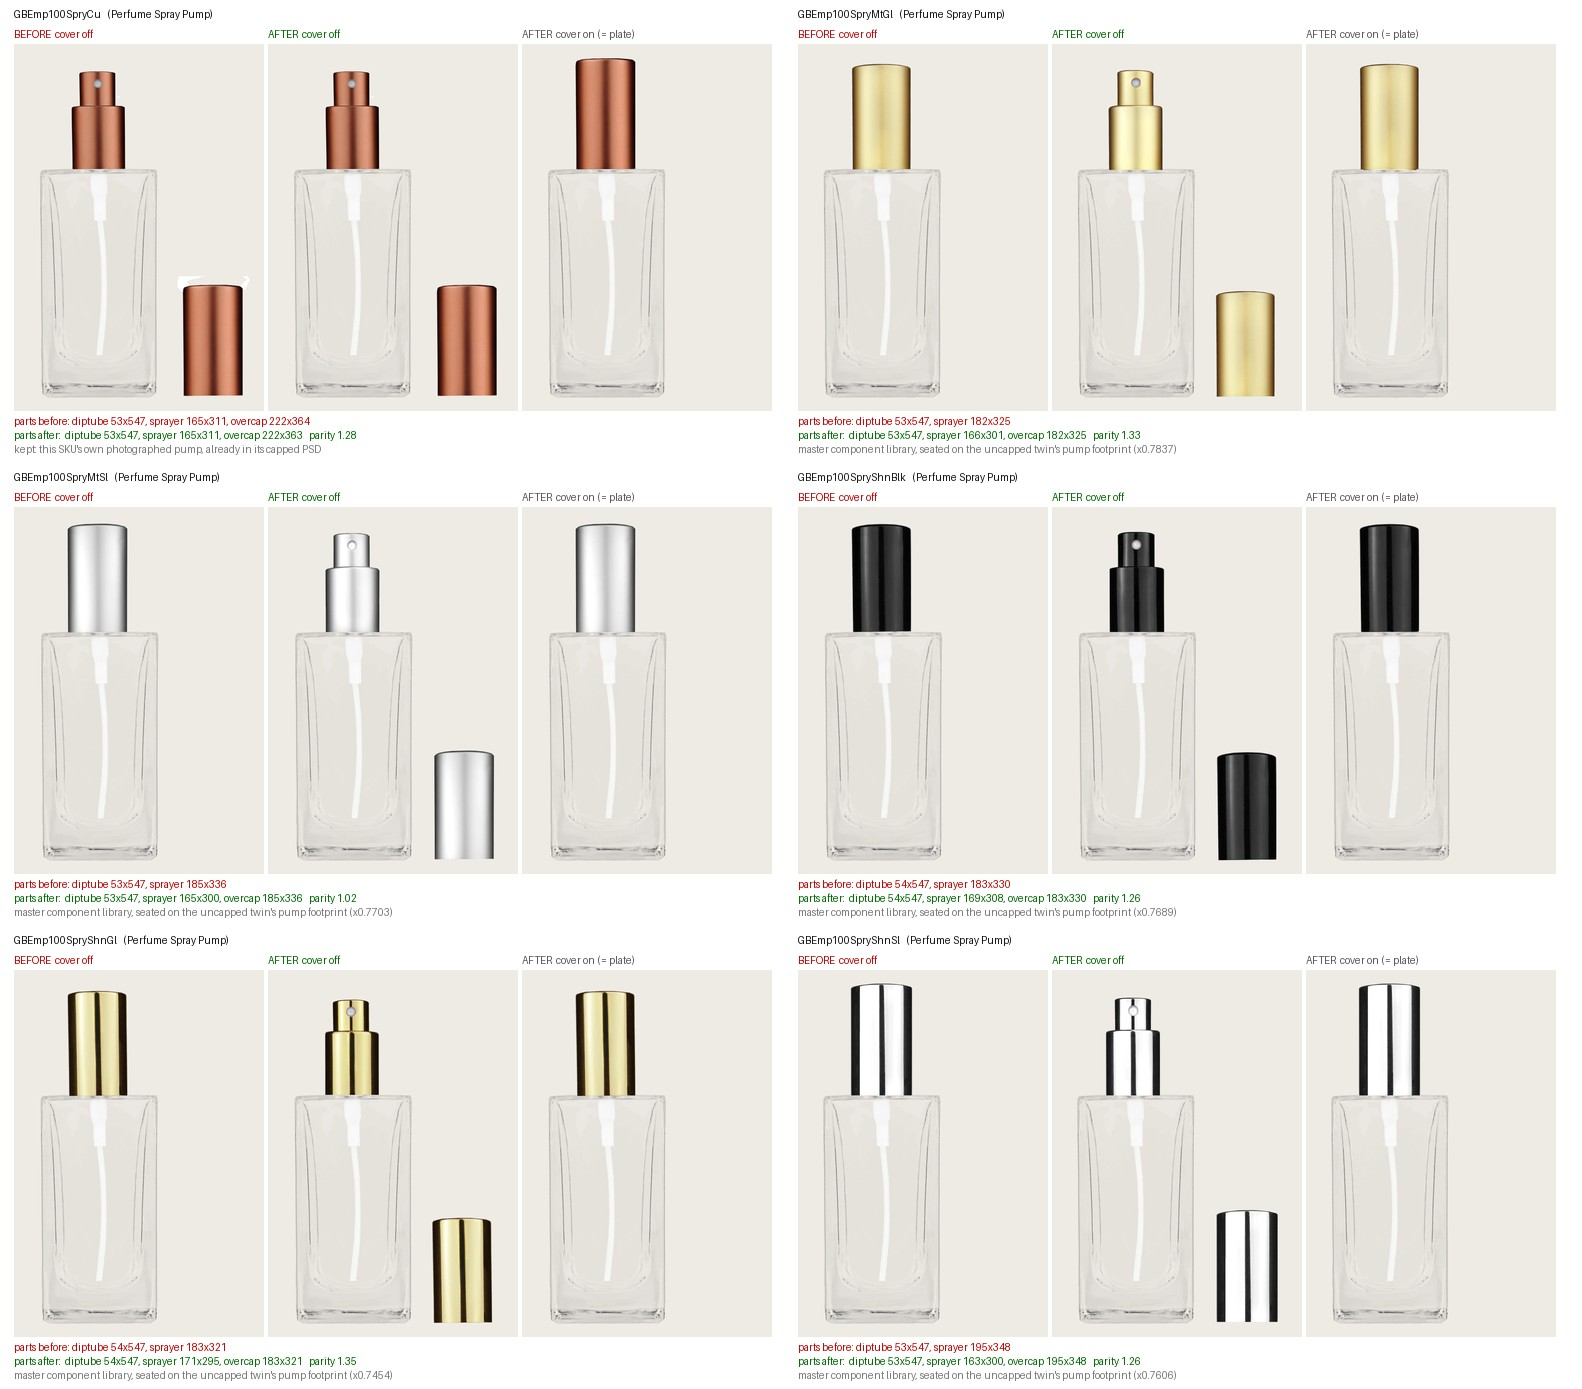
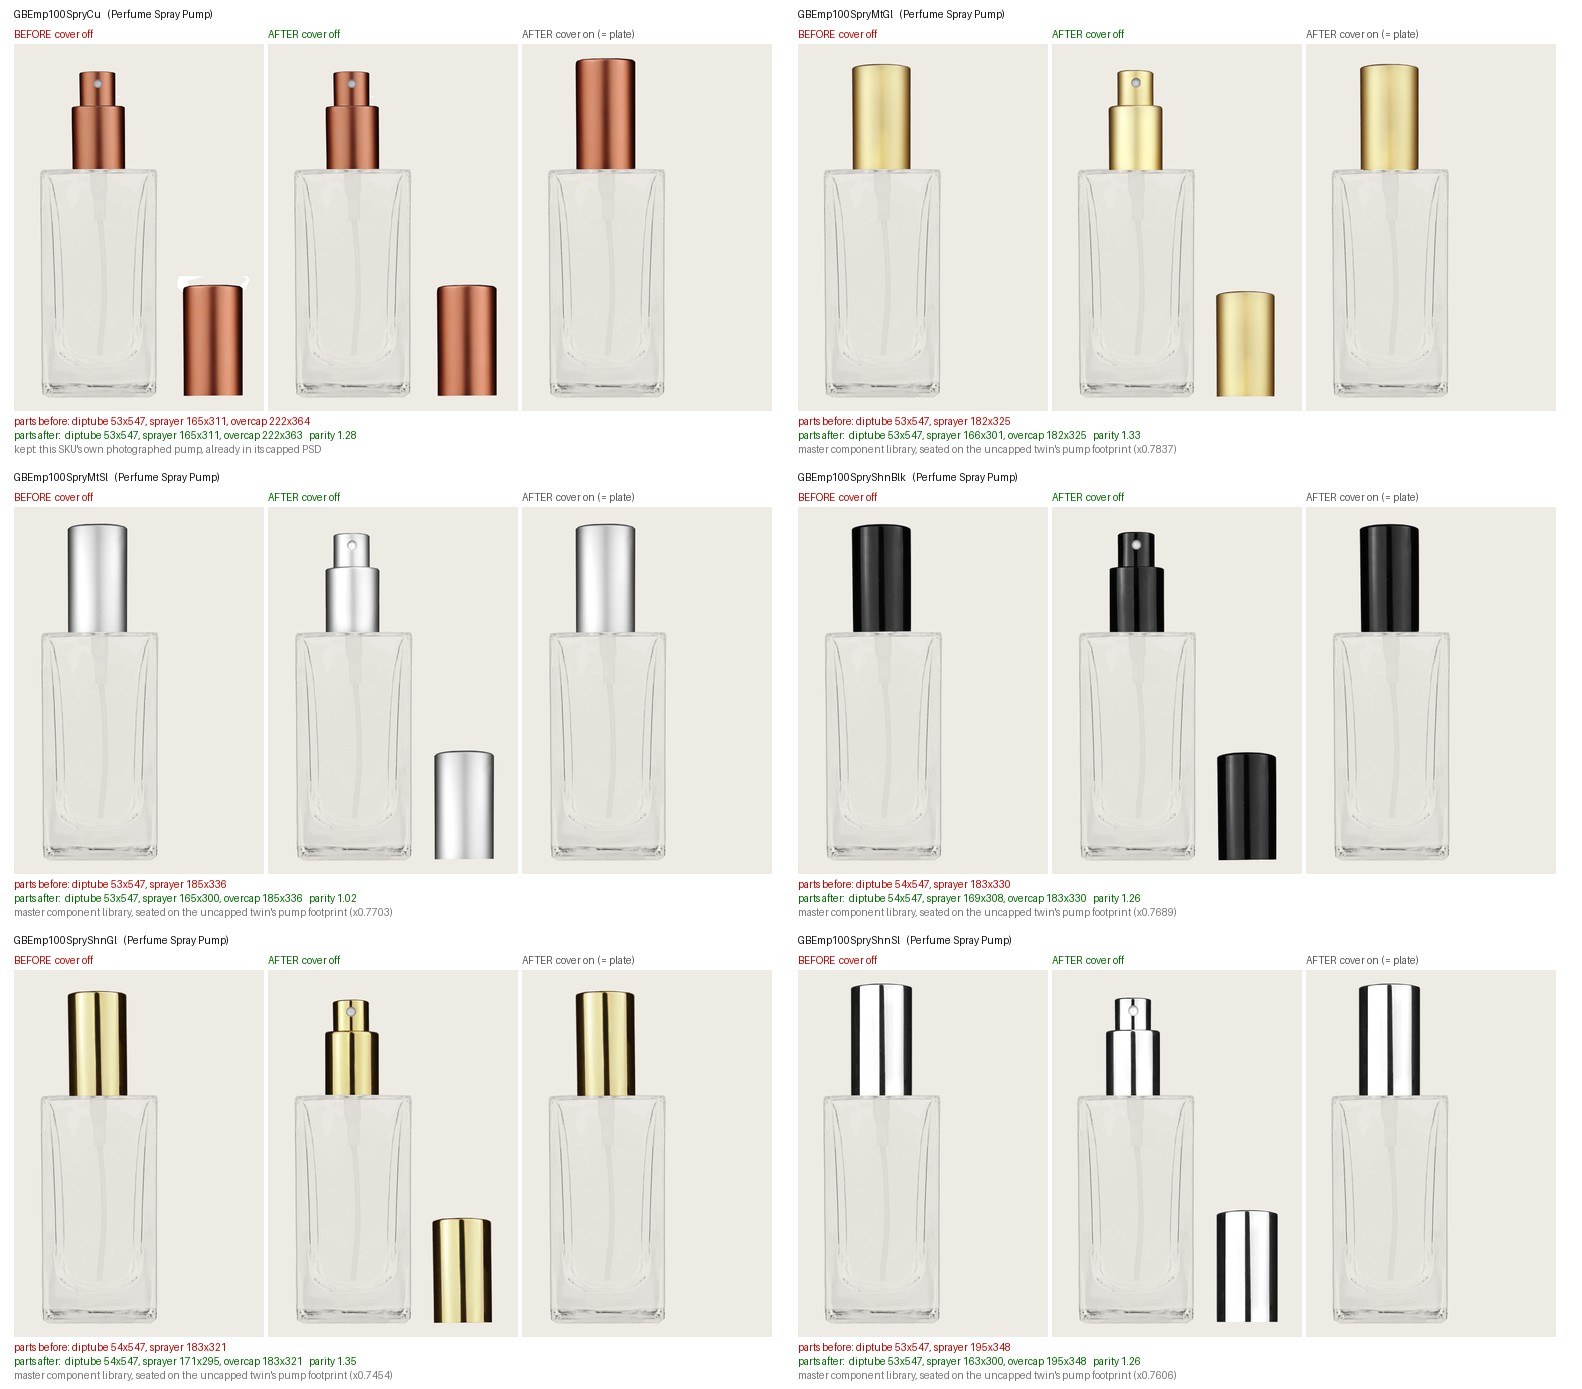
Pump kit sheet: multiply the dip tube as BuilderImage does on clear glass

diff --git a/scripts/paperdoll/empire_pump_kits_sheet.py b/scripts/paperdoll/empire_pump_kits_sheet.py
@@ -3,7 +3,7 @@
 
 BuilderImage.tsx: with the cover off, a kit that has BOTH an `overcap` part and a mechanism
 stands the overcap on the baseline beside the glass (gap = max(18, 8 % of body width)).
-Clear glass multiplies into the stage colour. This sheet applies exactly that rule to the
+Clear glass AND a part in the `diptube` slot multiply into the stage colour. This sheet applies exactly that rule to the
 kit as published today and to the rebuilt kit, so the difference shown is the kit's.
 
     python3 scripts/paperdoll/empire_pump_kits_sheet.py --batch dist/paper-doll/empire-pumps-2026-09-20
@@ -30,6 +30,12 @@ def draw(kits: Path, row: dict, cover_on: bool) -> Image.Image:
         if p["slot"] == "body":
             continue
         im = Image.open(kits / p["image"]).convert("RGBA")
+        if p["slot"] == "diptube":
+            # BuilderImage.tsx multiplies `diptube` on clear glass exactly as it does the body. A tube
+            # filed under any other slot name is drawn opaque — which is what the 50 ml kits did.
+            white = Image.new("RGB", CANVAS, "white"); white.paste(im, (0, 0), im)
+            out = ImageChops.multiply(out.convert("RGB"), white).convert("RGBA")
+            continue
         if p["slot"] == "overcap" and sidecar:
             b, bb = p["bounds"], body["bounds"]
             gap = max(18, (bb["right"] - bb["left"]) * .08)
